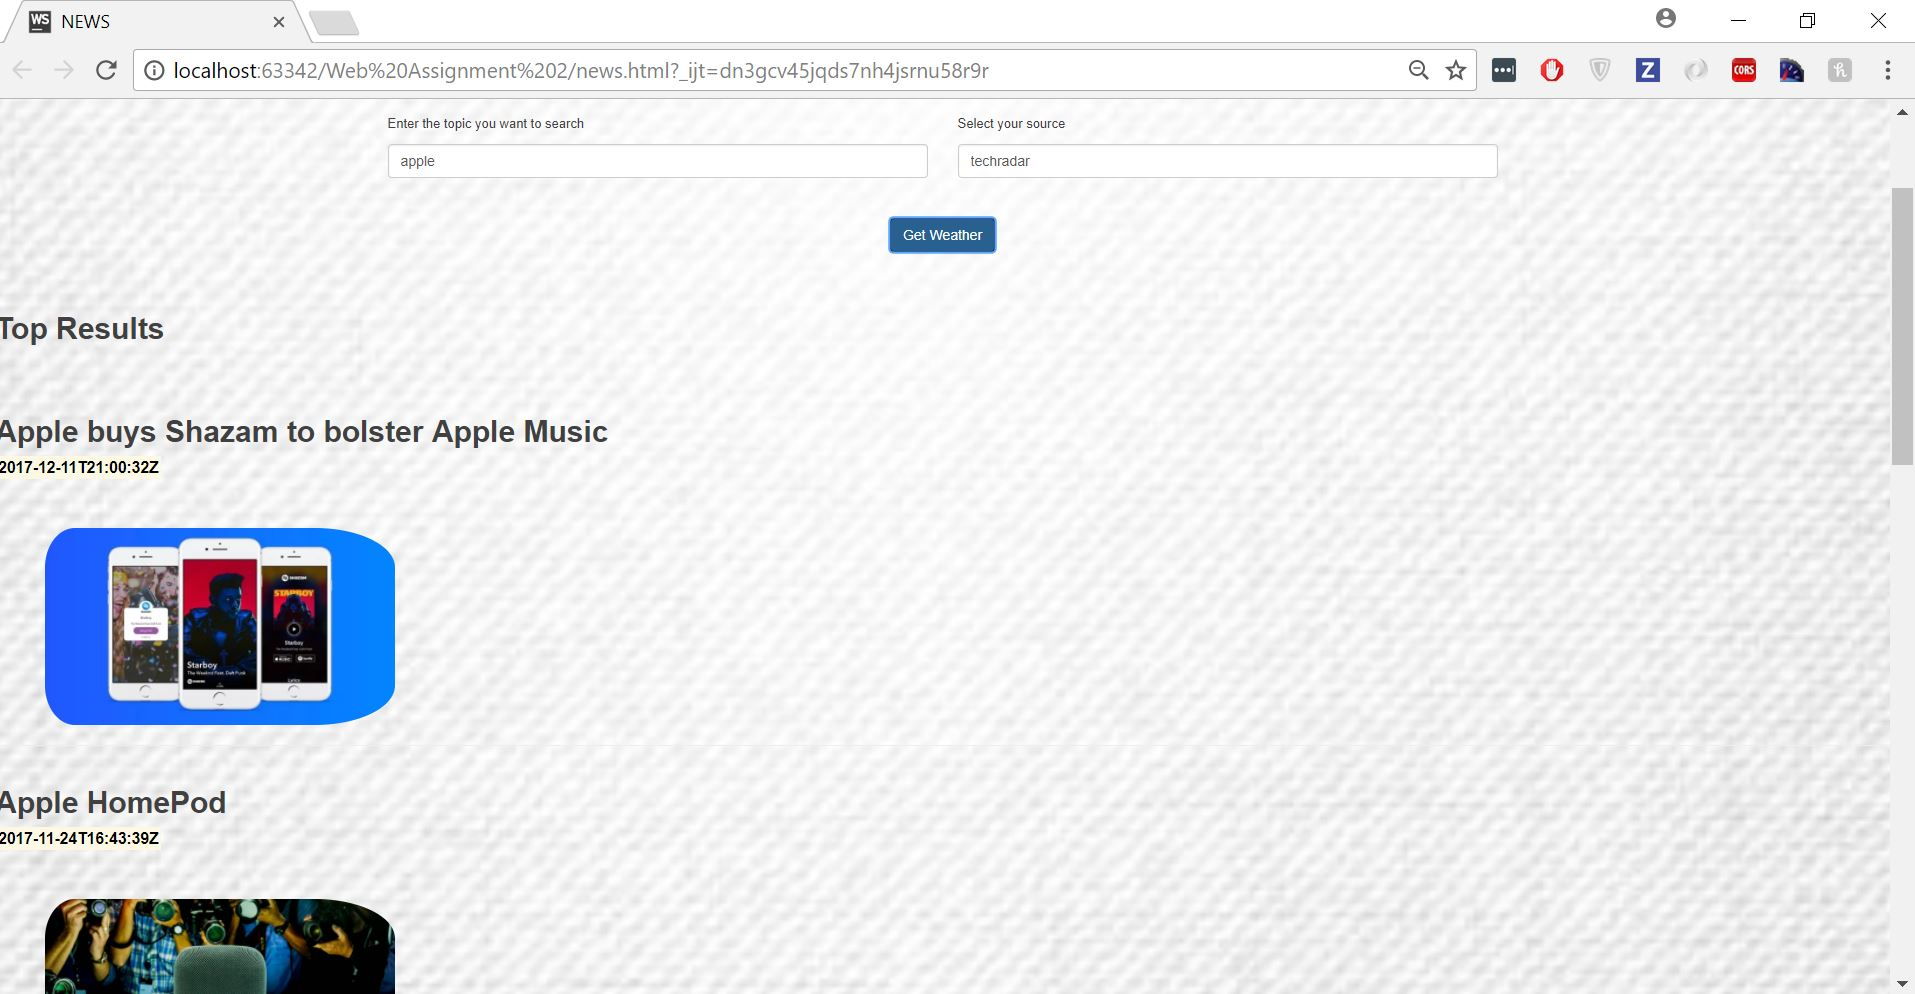
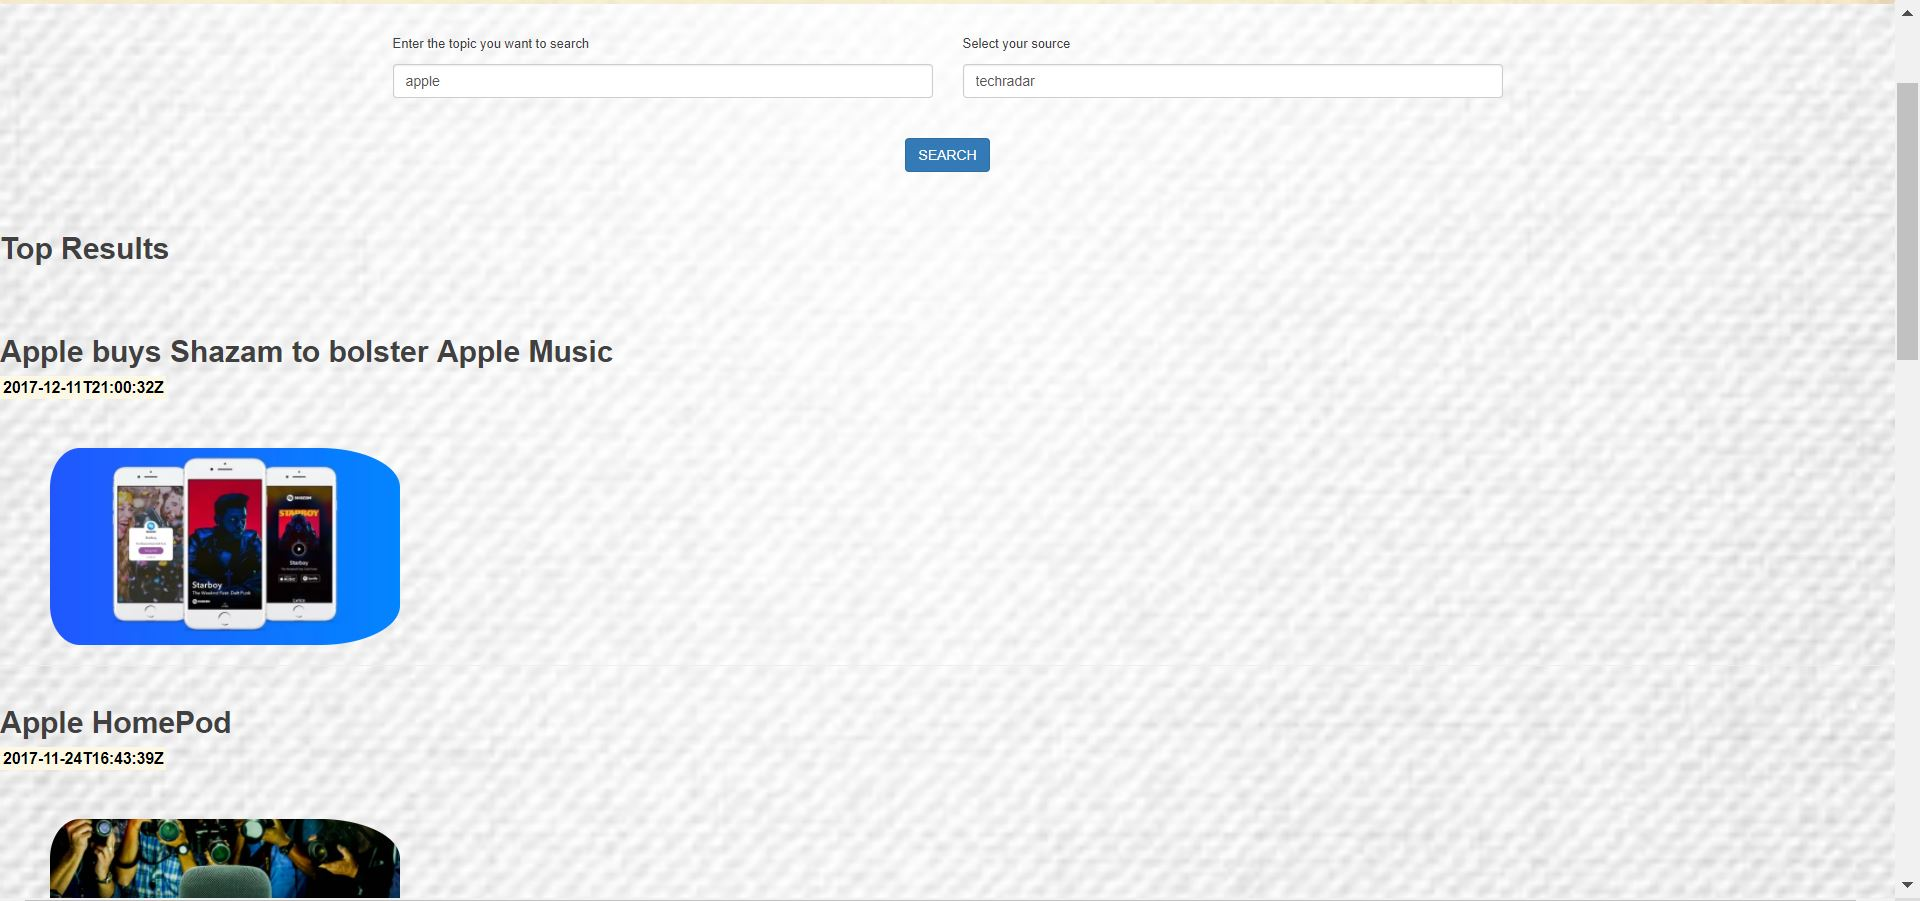
commit

diff --git a/Lab2- News and Tic Tac Toe/Task1- News/Source/Web Assignment 2/news.html b/Lab2- News and Tic Tac Toe/Task1- News/Source/Web Assignment 2/news.html
@@ -87,7 +87,7 @@
             border: 1px solid #888;
             width: 39%;
         }
-        
+
         .butto {
             padding-left: 200px;
         }
@@ -108,32 +108,32 @@
         }
     </style>
 </head>
-<body class="bgg" ng-app="Weather1">
-<div ng-controller="Weathercontroller">
+<body class="bgg" ng-app="News">
+<div ng-controller="Newscontroller">
 
 
     <div class="jumbotron text-center">
         <h1>Browse Content</h1>
     </div>
-<div class="container">
-    <div class="row">
-        <div class="col-6">
-            <p>Enter the topic you want to search</p>
-            <input id="topic" type="text" class="form-control" placeholder="e.g. Apple, Winter games">
-        </div>
-        <div class="col-6">
-            <p>Select your source</p>
-            <input id="source" type="text" class="form-control" placeholder="e.g. TechRadar, The Verge, BBC News, acm.org">
-        </div>
-    </div>
+    <div class="container">
         <div class="row">
-        <div class="center-block">
-            <br><br>
-            <button class="btn btn-primary" ng-click="weather1()" >Get Weather</button>
+            <div class="col-6">
+                <p>Enter the topic you want to search</p>
+                <input id="topic" type="text" class="form-control" placeholder="e.g. Apple, Winter games">
+            </div>
+            <div class="col-6">
+                <p>Select your source</p>
+                <input id="source" type="text" class="form-control" placeholder="e.g. TechRadar, The Verge, BBC News, acm.org">
+            </div>
         </div>
+        <div class="row">
+            <div class="center-block">
+                <br><br>
+                <button class="btn btn-primary" ng-click="news()" >SEARCH</button>
+            </div>
         </div>
 
-</div>
+    </div>
 
     <br><br>
     <h2><b>Top Results</b></h2>
@@ -166,17 +166,17 @@
     </div>
     <hr>
 
-        <div class="row">
-            <div class="col-sm-12"> <h2 class="alignleft"><b>{{headline2}}</b></h2>
-                <p style="font-size: larger" class="alignleft" ><b><mark>{{time2}}</mark></b></p>
+    <div class="row">
+        <div class="col-sm-12"> <h2 class="alignleft"><b>{{headline2}}</b></h2>
+            <p style="font-size: larger" class="alignleft" ><b><mark>{{time2}}</mark></b></p>
 
-<br><br>
-                <a href="{{content2}}" target="_blank">
-                    <img src="{{image2}}" class="img-fluid" width="400">
-                </a>
-            </div>
+            <br><br>
+            <a href="{{content2}}" target="_blank">
+                <img src="{{image2}}" class="img-fluid" width="400">
+            </a>
         </div>
-        <hr>
+    </div>
+    <hr>
 
     <div class="row">
         <div class="col-sm-12"> <h2 class="alignleft"><b>{{headline3}}</b></h2>
@@ -214,20 +214,20 @@
     </div>
     <hr>
 </div>
-    <!-- Scroll to Top Button-->
-    <a class="scroll-to-top rounded js-scroll-trigger" href="#page-top">
-        <i class="fa fa-angle-up"></i>
-    </a>
+<!-- Scroll to Top Button-->
+<a class="scroll-to-top rounded js-scroll-trigger" href="#page-top">
+    <i class="fa fa-angle-up"></i>
+</a>
 
-    <!-- Bootstrap core JavaScript -->
-    <script src="vendor/jquery/jquery.min.js"></script>
-    <script src="vendor/bootstrap/js/bootstrap.bundle.min.js"></script>
+<!-- Bootstrap core JavaScript -->
+<script src="vendor/jquery/jquery.min.js"></script>
+<script src="vendor/bootstrap/js/bootstrap.bundle.min.js"></script>
 
-    <!-- Plugin JavaScript -->
-    <script src="vendor/jquery-easing/jquery.easing.min.js"></script>
+<!-- Plugin JavaScript -->
+<script src="vendor/jquery-easing/jquery.easing.min.js"></script>
 
-    <!-- Custom scripts for this template -->
-    <script src="js/stylish-portfolio.min.js"></script>
+<!-- Custom scripts for this template -->
+<script src="js/stylish-portfolio.min.js"></script>
 
 
 </body>

diff --git a/Lab2- News and Tic Tac Toe/Task1- News/Source/Web Assignment 2/news.js b/Lab2- News and Tic Tac Toe/Task1- News/Source/Web Assignment 2/news.js
@@ -1,10 +1,10 @@
 /**
- * Created by sadan on 1/31/2017.
+ * Created by sadan on 2/13/2018.
  */
 
-var app=angular.module("Weather1",[]);
-app.controller("Weathercontroller",function ($scope,$http) {
-    $scope.weather1 = function () {
+var app=angular.module("News",[]);
+app.controller("Newscontroller",function ($scope,$http) {
+    $scope.news = function () {
         var topic1 = document.getElementById('topic').value;
 
         var source1 = document.getElementById('source').value;
